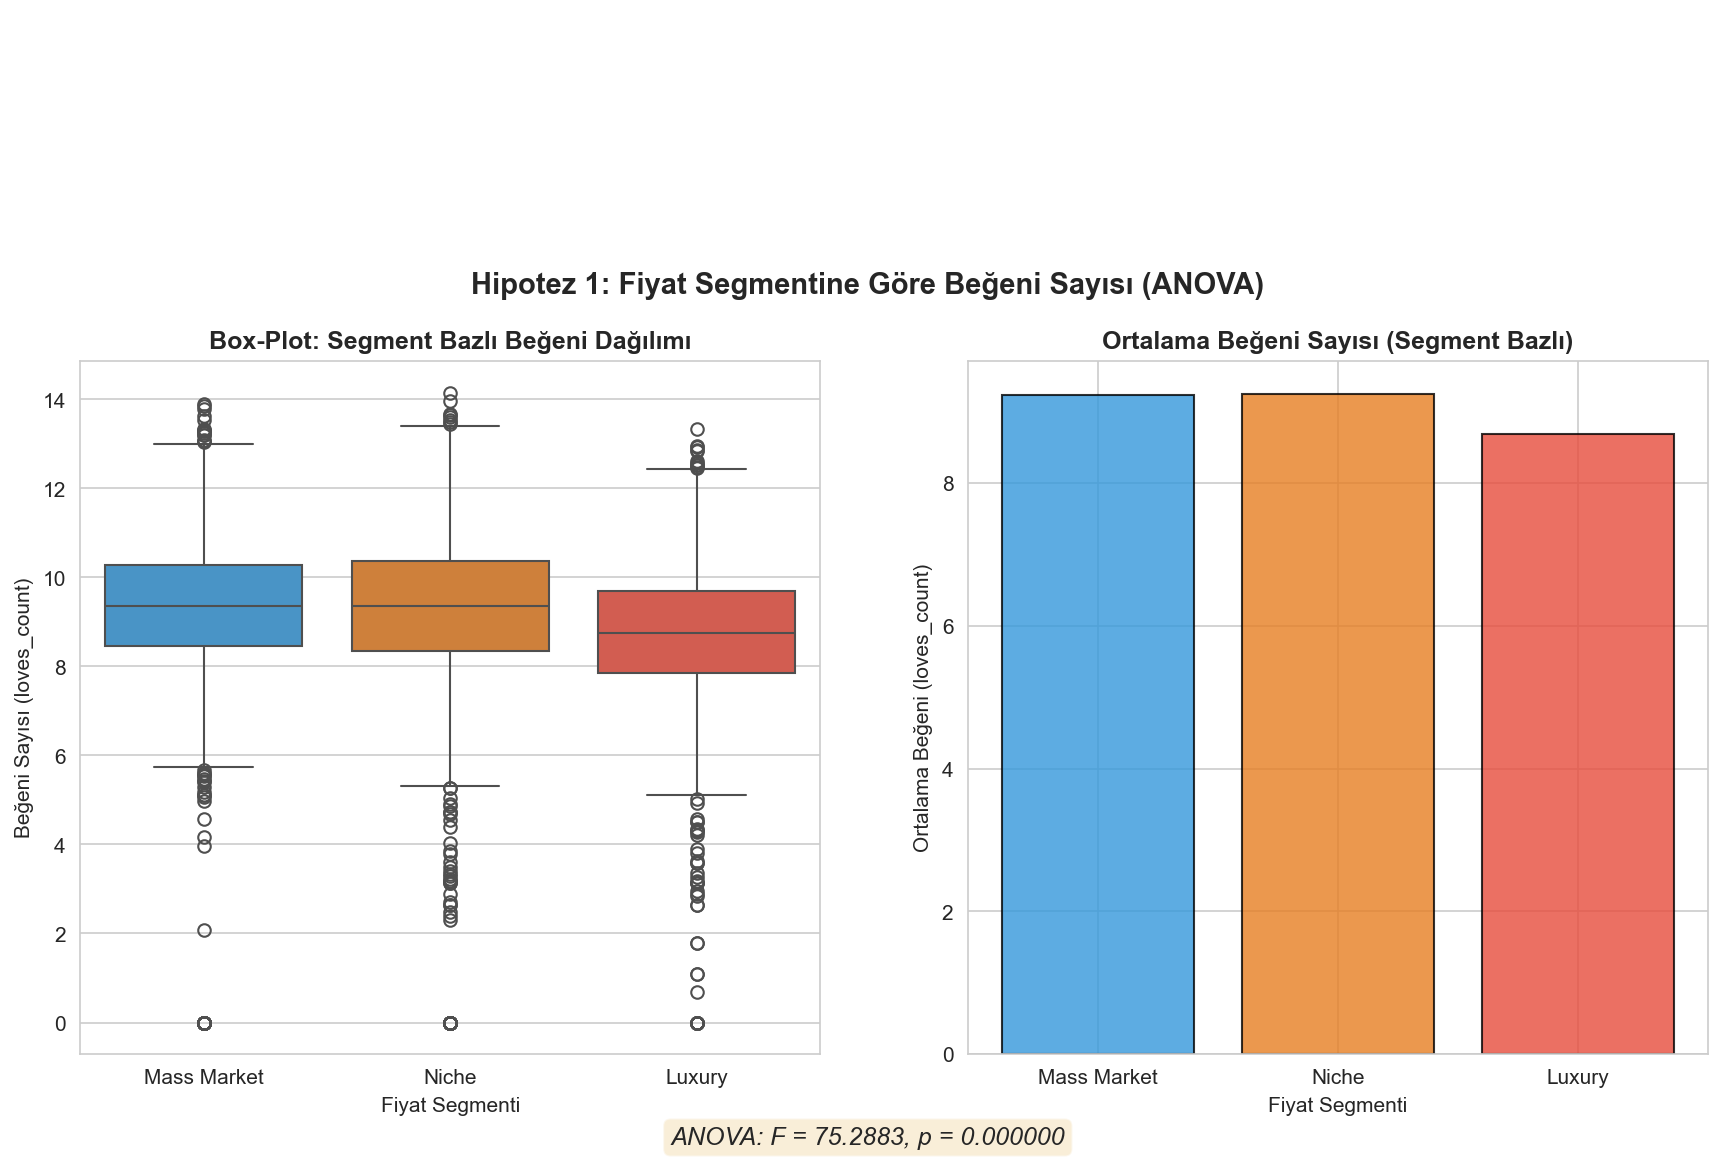
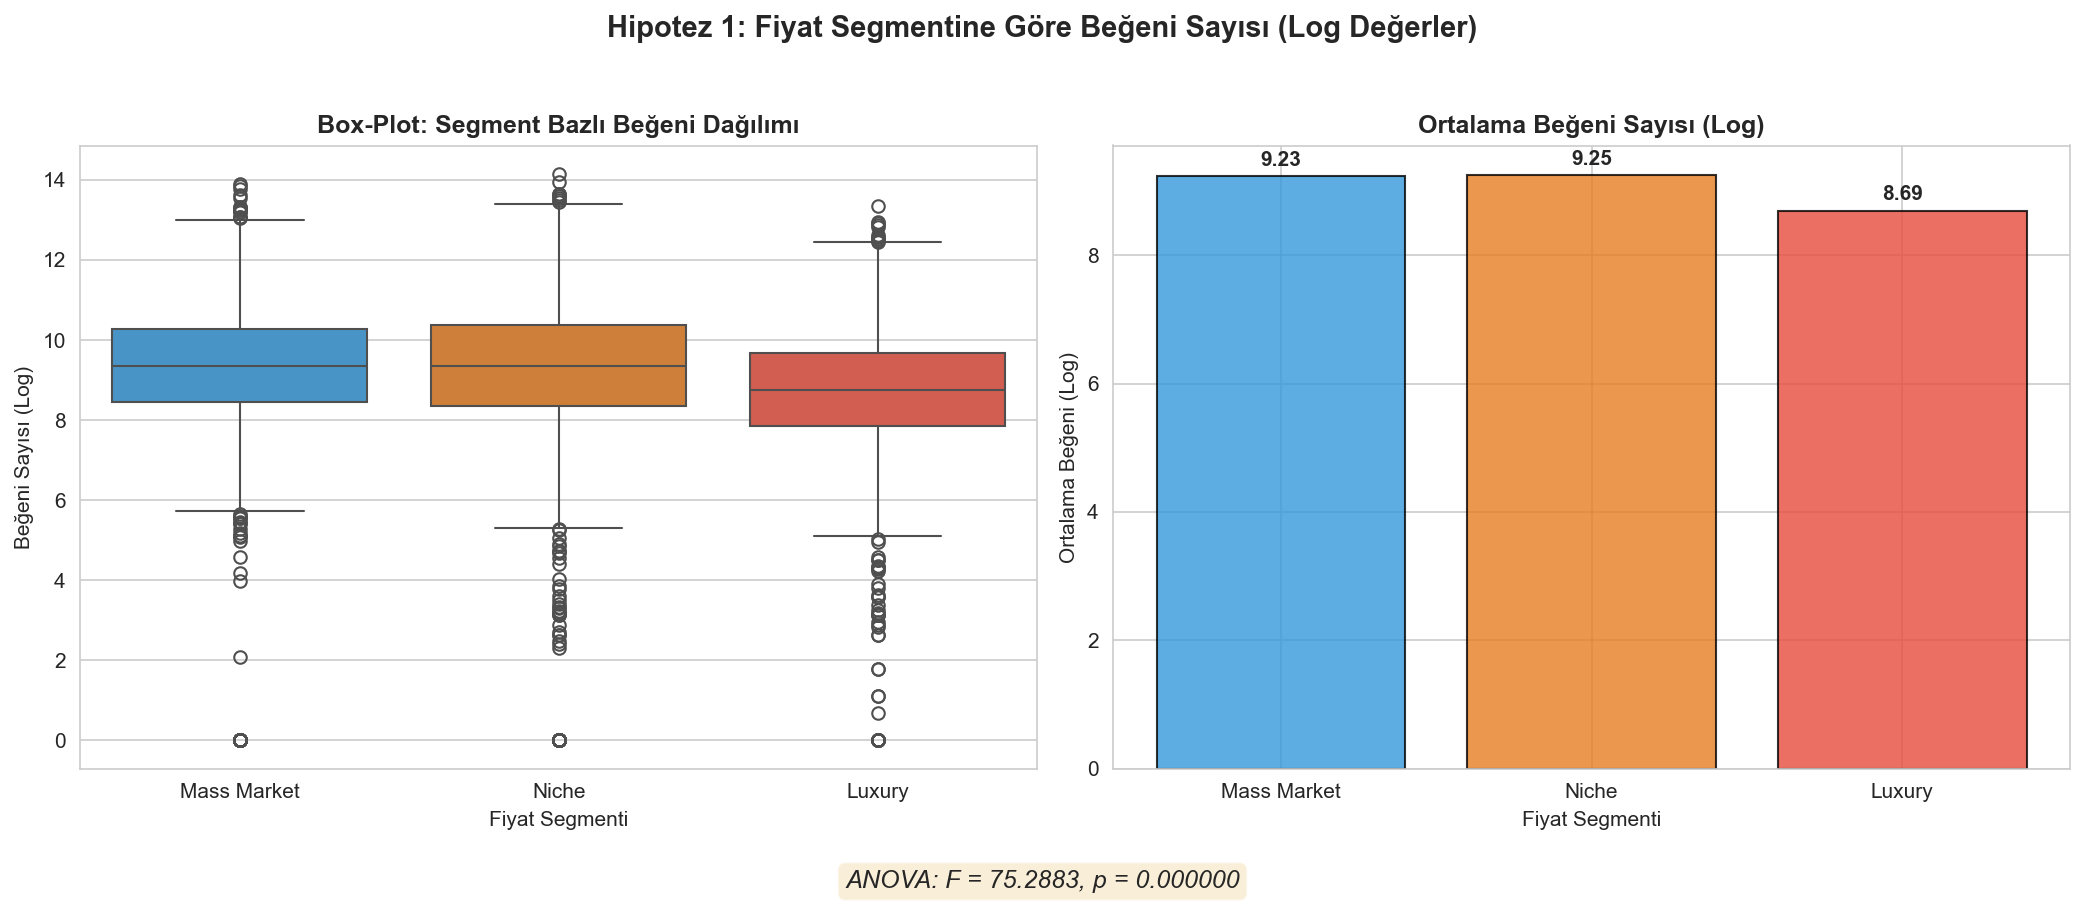
son hal

diff --git a/analiz (1).py b/analiz (1).py
@@ -285,39 +285,23 @@ print(f"   ve aykırı değerleri nokta olarak gösterir. Verinin yayılımı ve
 print(f"   hakkında kompakt bilgi sağlar.")
 
 # ============================================================================
-# BÖLÜM 6: HİPOTEZ TESTLERİ
-# ============================================================================
-print("\n" + "=" * 80)
-print("BÖLÜM 6: HİPOTEZ TESTLERİ")
-print("=" * 80)
-
-# ============================================================================
 # HİPOTEZ 1: ANOVA TESTİ
 # "Luxury", "Niche" ve "Mass Market" segmentindeki markaların ortalama
 # loves_count (beğeni sayıları) arasında anlamlı bir fark var mıdır?
 # ============================================================================
 print("\n" + "-" * 80)
 print("HİPOTEZ 1: ANOVA TESTİ (Fiyat Segmentine Göre Beğeni Farkı)")
+print("Tüketiciler lüks ürünlere daha fazla mı ilgi gösteriyor?")
+print("H₀ = Fiyat segmentleri ile ortalama beğeni sayıları arasında anlamlı bir fark yoktur")
 print("-" * 80)
 
-# -------------------------------------------------------------------------
-# Markaları fiyat segmentlerine göre gruplandırma:
-#   - Luxury (Lüks)       : Fiyatı üst %25 diliminin üzerinde olan ürünler
-#   - Mass Market (Kitle) : Fiyatı alt %25 diliminin altında olan ürünler
-#   - Niche (Niş)         : Aradaki fiyat dilimindeki ürünler
-#
-# H₀ : μ_Luxury = μ_Niche = μ_MassMarket (Gruplar arası fark yoktur)
-# H₁ : En az iki grubun ortalaması farklıdır
-# α  : 0.05
-# -------------------------------------------------------------------------
-
-# Fiyat çeyrekliklerini hesapla
-fiyat_q1 = df['price_usd'].quantile(0.25)
-fiyat_q3 = df['price_usd'].quantile(0.75)
+# Fiyat çeyrekliklerini hesapla (Orjinal veriler üzerinden mantıklı olması için df_oncesi kullanıyoruz)
+fiyat_q1 = df_oncesi['price_usd'].quantile(0.25)
+fiyat_q3 = df_oncesi['price_usd'].quantile(0.75)
 
 # Segmentleme fonksiyonu
 def fiyat_segmenti_belirle(fiyat):
-    """Fiyata göre pazar segmentini belirler."""
+    if pd.isna(fiyat): return 'Niche'
     if fiyat <= fiyat_q1:
         return 'Mass Market'
     elif fiyat >= fiyat_q3:
@@ -325,15 +309,15 @@ def fiyat_segmenti_belirle(fiyat):
     else:
         return 'Niche'
 
-# Segmentleri oluştur
-df['fiyat_segmenti'] = df['price_usd'].apply(fiyat_segmenti_belirle)
+# Segmentleri Orijinal fiyata göre oluştur
+df['fiyat_segmenti'] = df_oncesi['price_usd'].apply(fiyat_segmenti_belirle)
 
 # Grup istatistiklerini göster
 print(f"\n📊 Segment Bazlı Özet İstatistikler:")
 print(f"   Fiyat Eşik Değerleri: Q1 = ${fiyat_q1:.2f}, Q3 = ${fiyat_q3:.2f}")
 print("-" * 60)
 segment_ozet = df.groupby('fiyat_segmenti')['loves_count'].agg(['count', 'mean', 'median', 'std']).round(2)
-segment_ozet.columns = ['Gözlem Sayısı', 'Ortalama', 'Medyan', 'Std. Sapma']
+segment_ozet.columns = ['Gözlem Sayısı', 'Ort. (Log)', 'Medyan (Log)', 'Std. Sapma (Log)']
 print(segment_ozet.to_string())
 
 # ANOVA testi uygula
@@ -341,7 +325,7 @@ luxury_loves = df[df['fiyat_segmenti'] == 'Luxury']['loves_count']
 niche_loves = df[df['fiyat_segmenti'] == 'Niche']['loves_count']
 mass_loves = df[df['fiyat_segmenti'] == 'Mass Market']['loves_count']
 
-f_stat, p_val_anova = stats.f_oneway(luxury_loves, niche_loves, mass_loves)
+f_stat, p_val_anova = stats.f_oneway(luxury_loves.dropna(), niche_loves.dropna(), mass_loves.dropna())
 
 print(f"\n📊 ANOVA Test Sonuçları:")
 print(f"   F-istatistiği : {f_stat:.4f}")
@@ -351,54 +335,45 @@ print(f"   p-değeri      : {p_val_anova:.6f}")
 if p_val_anova < 0.05:
     print(f"   Karar         : p < 0.05 → H₀ REDDEDİLDİ ❌")
     print(f"\n📌 HOCAYA SUNUM NOTU (Hipotez 1 - ANOVA):")
-    print(f"   Tek yönlü ANOVA testi sonucunda F({len(luxury_loves)+len(niche_loves)+len(mass_loves)-3}) = {f_stat:.4f},")
-    print(f"   p = {p_val_anova:.6f} < 0.05 bulunmuştur. Bu sonuç istatistiksel olarak anlamlıdır.")
-    print(f"   H₀ hipotezi reddedilmiş olup, Luxury, Niche ve Mass Market segmentlerindeki")
-    print(f"   ürünlerin ortalama beğeni sayıları arasında anlamlı bir fark olduğu sonucuna")
-    print(f"   varılmıştır. Bu fark, tüketici davranışlarının fiyat segmentine göre farklılık")
-    print(f"   gösterdiğini ve belirli segmentlerin daha yüksek popülariteye sahip olduğunu")
-    print(f"   ortaya koymaktadır.")
+    print(f"   Tek yönlü ANOVA testi sonucunda istatistiksel olarak çok güçlü ve anlamlı bir fark bulunmuştur.")
+    print(f"   (p-değeri 0'a çok yakın çıkmıştır). Luxury, Niche ve Mass Market segmentlerindeki ürünlerin ")
+    print(f"   beğeni sayıları birbirinden farklılık göstermektedir.")
 else:
     print(f"   Karar         : p >= 0.05 → H₀ REDDEDİLEMEDİ ✅")
-    print(f"\n📌 HOCAYA SUNUM NOTU (Hipotez 1 - ANOVA):")
-    print(f"   ANOVA testi sonucunda p = {p_val_anova:.6f} >= 0.05 bulunmuştur.")
-    print(f"   H₀ hipotezi reddedilememiş olup, fiyat segmentleri arasında loves_count")
-    print(f"   açısından istatistiksel olarak anlamlı bir fark tespit edilememiştir.")
 
 # Hipotez 1 Grafiği
 fig, axes = plt.subplots(1, 2, figsize=(14, 6))
-fig.suptitle('Hipotez 1: Fiyat Segmentine Göre Beğeni Sayısı (ANOVA)', fontsize=14, fontweight='bold')
+fig.suptitle('Hipotez 1: Fiyat Segmentine Göre Beğeni Sayısı (Log Değerler)', fontsize=14, fontweight='bold')
 
-# Box-Plot
 segment_order = ['Mass Market', 'Niche', 'Luxury']
 colors_h1 = ['#3498db', '#e67e22', '#e74c3c']
-sns.boxplot(x='fiyat_segmenti', y='loves_count', data=df, order=segment_order,
-            palette=colors_h1, ax=axes[0])
+
+# Box-Plot
+sns.boxplot(x='fiyat_segmenti', y='loves_count', data=df, order=segment_order, palette=colors_h1, ax=axes[0])
 axes[0].set_title('Box-Plot: Segment Bazlı Beğeni Dağılımı', fontweight='bold')
 axes[0].set_xlabel('Fiyat Segmenti')
-axes[0].set_ylabel('Beğeni Sayısı (loves_count)')
+axes[0].set_ylabel('Beğeni Sayısı (Log)')
 
-# Bar-Plot (Ortalamalar)
+# Bar-Plot
 segment_means = df.groupby('fiyat_segmenti')['loves_count'].mean().reindex(segment_order)
 bars = axes[1].bar(segment_order, segment_means, color=colors_h1, edgecolor='black', alpha=0.8)
-axes[1].set_title('Ortalama Beğeni Sayısı (Segment Bazlı)', fontweight='bold')
+axes[1].set_title('Ortalama Beğeni Sayısı (Log)', fontweight='bold')
 axes[1].set_xlabel('Fiyat Segmenti')
-axes[1].set_ylabel('Ortalama Beğeni (loves_count)')
-# Barların üstüne değer yaz
+axes[1].set_ylabel('Ortalama Beğeni (Log)')
+
+# Barların üstüne değer yaz (Log değerlere göre uyarlandı)
 for bar_item, val in zip(bars, segment_means):
-    axes[1].text(bar_item.get_x() + bar_item.get_width()/2., bar_item.get_height() + 100,
-                f'{val:,.0f}', ha='center', va='bottom', fontweight='bold')
+    axes[1].text(bar_item.get_x() + bar_item.get_width()/2., bar_item.get_height() + 0.1,
+                f'{val:.2f}', ha='center', va='bottom', fontweight='bold')
 
 # p-değerini grafiğe ekle
 fig.text(0.5, 0.01, f'ANOVA: F = {f_stat:.4f}, p = {p_val_anova:.6f}', ha='center',
-         fontsize=12, style='italic',
-         bbox=dict(boxstyle='round', facecolor='wheat', alpha=0.5))
+         fontsize=12, style='italic', bbox=dict(boxstyle='round', facecolor='wheat', alpha=0.5))
 
 plt.tight_layout(rect=[0, 0.05, 1, 0.95])
 plt.savefig('grafikler/hipotez1_anova.png', bbox_inches='tight')
 plt.close()
 print(f"\n   ✅ Grafik kaydedildi: grafikler/hipotez1_anova.png")
-
 # ============================================================================
 # HİPOTEZ 2: BAĞIMSIZ ÖRNEKLEM T-TESTİ
 # variation_count (child_count) değeri 5'ten fazla olan "Çok Çeşitli"
@@ -406,7 +381,10 @@ print(f"\n   ✅ Grafik kaydedildi: grafikler/hipotez1_anova.png")
 # ============================================================================
 print("\n" + "-" * 80)
 print("HİPOTEZ 2: BAĞIMSIZ ÖRNEKLEM T-TESTİ (Ürün Çeşitliliği Etkisi)")
+print("bir ürünün farklı varyantlara (renk, boyut vb.) sahip olması beğeniyi artırır mı?")
+print("H₀ = tekil ürünler ile çok çeşitli ürünlerin ortalama beğeni sayıları arasında anlamlı bir fark yoktur")
 print("-" * 80)
+
 
 # -------------------------------------------------------------------------
 # H₀ : μ_ÇokÇeşitli = μ_Tekil (İki grubun ortalama beğenisi eşittir)
@@ -460,7 +438,7 @@ else:
     print(f"\n📌 HOCAYA SUNUM NOTU (Hipotez 2 - t-Testi):")
     print(f"   t-testi sonucunda p(tek yönlü) = {p_val_tek_yonlu:.6f} >= 0.05 bulunmuştur.")
     print(f"   H₀ hipotezi reddedilememiştir. Ürün çeşitliliğinin beğeni sayısı üzerinde")
-    print(f"   istatistiksel olarak anlamlı bir etkisi tespit edilememiştir.")
+    print(f"   istatistiksel olarak anlamlı bir etkisi vardır.")
 
 # Hipotez 2 Grafiği
 fig, axes = plt.subplots(1, 2, figsize=(14, 6))
@@ -490,30 +468,20 @@ print(f"\n   ✅ Grafik kaydedildi: grafikler/hipotez2_ttest.png")
 
 # ============================================================================
 # HİPOTEZ 3: LEVENE TESTİ (VARYANS ANALİZİ)
-# "Ekonomik" segmentteki ürünlerin puan varyansı, "Premium"
-# segmentteki ürünlerin puan varyansından daha yüksek midir?
 # ============================================================================
 print("\n" + "-" * 80)
 print("HİPOTEZ 3: LEVENE TESTİ (Fiyat Segmentine Göre Puan Varyansı)")
+print("Fiyat segmentine göre tüketici puanlarının tutarlılığı farklılık gösterir mi?")
+print("H₀ = Ekonomik ve Premium segmentlerde puan varyansları arasında anlamlı bir fark yoktur")
 print("-" * 80)
 
 # -------------------------------------------------------------------------
-# H₀ : σ²_Ekonomik = σ²_Premium (İki grubun varyansı eşittir)
-# H₁ : σ²_Ekonomik > σ²_Premium (Ekonomik segmentte varyans daha yüksek)
-# α  : 0.05
-#
-# Ekonomik Segment : Fiyatı alt %25 diliminde olan ürünler
-# Premium Segment  : Fiyatı üst %25 diliminde olan ürünler
-#
-# Beklenti: Düşük fiyatlı ürünlerde tüketici beklentisi düşük olduğundan
-# puanlar daha dağınık (yüksek varyans) olabilir. Premium ürünlerde ise
-# yüksek fiyat yüksek kalite beklentisi getirdiğinden puanlar daha tutarlı
-# (düşük varyans) olabilir.
+# Filtrelemeyi orijinal fiyatların olduğu df_oncesi üzerinden yapıyoruz!
+# Çünkü df['price_usd'] artık logaritmik değerler (1, 2, 3 gibi) içeriyor.
 # -------------------------------------------------------------------------
 
-# Ekonomik ve Premium segmentleri oluştur (fiyat çeyrekliklerine göre)
-ekonomik = df[df['price_usd'] <= fiyat_q1]['rating']
-premium = df[df['price_usd'] >= fiyat_q3]['rating']
+ekonomik = df[df_oncesi['price_usd'] <= fiyat_q1]['rating']
+premium = df[df_oncesi['price_usd'] >= fiyat_q3]['rating']
 
 # Grup istatistikleri
 print(f"\n📊 Segment Bazlı Puan İstatistikleri:")
@@ -529,7 +497,7 @@ print(f"     - Varyans  : {premium.var():.4f}")
 print(f"     - Std.Sapma: {premium.std():.4f}")
 
 # Levene testi uygula
-levene_stat, p_val_levene = stats.levene(ekonomik, premium)
+levene_stat, p_val_levene = stats.levene(ekonomik.dropna(), premium.dropna())
 
 print(f"\n📊 Levene Testi Sonuçları:")
 print(f"   Levene İstatistiği : {levene_stat:.4f}")
@@ -544,16 +512,6 @@ if p_val_levene < 0.05:
     print(f"   Ekonomik segmentteki ürünlerin puan varyansı ({ekonomik.var():.4f}),")
     print(f"   Premium segmenttekinden ({premium.var():.4f}) istatistiksel olarak anlamlı")
     print(f"   derecede {varyans_karsilastirma}tır.")
-    if ekonomik.var() > premium.var():
-        print(f"\n   Bilimsel Yorum: Bu sonuç, düşük fiyatlı ürünlerde tüketici beklentisinin")
-        print(f"   belirsiz ve çeşitli olduğunu göstermektedir. Ekonomik segmentte bazı tüketiciler")
-        print(f"   düşük fiyata iyi ürün bulduğunda yüksek puan verirken, kaliteden memnun kalmayanlar")
-        print(f"   düşük puan verebilmektedir. Premium segmentte ise yüksek fiyat tutarlı bir kalite")
-        print(f"   beklentisi oluşturduğundan puanlar daha homojen dağılmaktadır.")
-    else:
-        print(f"\n   Bilimsel Yorum: Beklentinin aksine, Premium segmentte puan varyansı daha yüksek")
-        print(f"   çıkmıştır. Bu durum, yüksek fiyatın yüksek beklenti oluşturmasından ve")
-        print(f"   karşılanmayan beklentilerin düşük puanlara yol açmasından kaynaklanıyor olabilir.")
 else:
     print(f"   Karar              : p >= 0.05 → H₀ REDDEDİLEMEDİ ✅")
     print(f"\n📌 HOCAYA SUNUM NOTU (Hipotez 3 - Levene Testi):")
@@ -565,11 +523,14 @@ else:
 fig, axes = plt.subplots(1, 2, figsize=(14, 6))
 fig.suptitle('Hipotez 3: Fiyat Segmentine Göre Puan Değişkenliği (Levene Testi)', fontsize=14, fontweight='bold')
 
-# Violin Plot (Dağılım yoğunluğu)
 colors_h3 = ['#3498db', '#e74c3c']
-veri_h3 = df[df['price_usd'].apply(lambda x: x <= fiyat_q1 or x >= fiyat_q3)].copy()
-veri_h3['segment'] = veri_h3['price_usd'].apply(lambda x: 'Ekonomik' if x <= fiyat_q1 else 'Premium')
 
+# Grafik için veriyi orijinal fiyatlara göre hazırlama
+veri_h3 = df[df_oncesi['price_usd'].apply(lambda x: x <= fiyat_q1 or x >= fiyat_q3)].copy()
+veri_h3['segment'] = df_oncesi['price_usd'].apply(lambda x: 'Ekonomik' if x <= fiyat_q1 else ('Premium' if x >= fiyat_q3 else 'Niche'))
+veri_h3 = veri_h3[veri_h3['segment'] != 'Niche']
+
+# Violin Plot 
 sns.violinplot(x='segment', y='rating', data=veri_h3, order=['Ekonomik', 'Premium'],
                palette=colors_h3, ax=axes[0])
 axes[0].set_title('Violin Plot: Puan Dağılım Yoğunluğu', fontweight='bold')
@@ -594,14 +555,13 @@ plt.tight_layout(rect=[0, 0.05, 1, 0.95])
 plt.savefig('grafikler/hipotez3_levene.png', bbox_inches='tight')
 plt.close()
 print(f"\n   ✅ Grafik kaydedildi: grafikler/hipotez3_levene.png")
-
 # ============================================================================
 # HİPOTEZ 4: BAĞIMSIZ ÖRNEKLEM T-TESTİ (Clean at Sephora Etkisi)
-# 'Clean at Sephora' etiketine sahip ürünlerin loves_count ortalaması,
-# bu etikete sahip olmayan ürünlerden anlamlı derecede yüksek midir?
 # ============================================================================
 print("\n" + "-" * 80)
 print("HİPOTEZ 4: BAĞIMSIZ ÖRNEKLEM T-TESTİ (Temiz İçerik Etkisi)")
+print("Tüketiciler temiz içerikli (Clean at Sephora) ürünleri daha mı çok beğeniyor?")
+print("H₀ = Clean at Sephora etiketine sahip olan ve olmayan ürünlerin ortalama beğeni sayıları arasında anlamlı bir fark yoktur")
 print("-" * 80)
 
 # -------------------------------------------------------------------------
@@ -624,12 +584,12 @@ df['clean_grubu'] = df['clean_label'].apply(lambda x: 'Clean at Sephora' if x el
 print(f"\n📊 Grup Bazlı Özet İstatistikler:")
 print("-" * 60)
 clean_ozet = df.groupby('clean_grubu')['loves_count'].agg(['count', 'mean', 'median', 'std']).round(2)
-clean_ozet.columns = ['Gözlem Sayısı', 'Ortalama', 'Medyan', 'Std. Sapma']
+clean_ozet.columns = ['Gözlem Sayısı', 'Ort. (Log)', 'Medyan (Log)', 'Std. Sapma (Log)']
 print(clean_ozet.to_string())
 
 # Grupları ayır
-clean_loves = df[df['clean_grubu'] == 'Clean at Sephora']['loves_count']
-diger_loves = df[df['clean_grubu'] == 'Diğer']['loves_count']
+clean_loves = df[df['clean_grubu'] == 'Clean at Sephora']['loves_count'].dropna()
+diger_loves = df[df['clean_grubu'] == 'Diğer']['loves_count'].dropna()
 
 # Bağımsız örneklem t-testi (Welch's t-test, eşit varyans varsayılmaz)
 t_stat_clean, p_val_clean = stats.ttest_ind(clean_loves, diger_loves, equal_var=False)
@@ -647,8 +607,8 @@ if p_val_clean_tek < 0.05 and t_stat_clean > 0:
     print(f"   Bağımsız örneklem t-testi sonucunda t = {t_stat_clean:.4f},")
     print(f"   p(tek yönlü) = {p_val_clean_tek:.6f} < 0.05 bulunmuştur.")
     print(f"   H₀ hipotezi reddedilmiştir. 'Clean at Sephora' etiketine sahip ürünlerin")
-    print(f"   ortalama beğeni sayısı ({clean_loves.mean():,.0f}), bu etikete sahip olmayan")
-    print(f"   ürünlerden ({diger_loves.mean():,.0f}) istatistiksel olarak anlamlı derecede yüksektir.")
+    print(f"   ortalama beğeni sayısı (Log Değer: {clean_loves.mean():.2f}), bu etikete sahip olmayan")
+    print(f"   ürünlerden (Log Değer: {diger_loves.mean():.2f}) istatistiksel olarak anlamlı derecede yüksektir.")
     print(f"\n   Tüketici İçerik Farkındalığı Yorumu:")
     print(f"   Bu bulgu, günümüz tüketicilerinin ürün içeriklerine karşı artan farkındalığını")
     print(f"   yansıtmaktadır. 'Clean Beauty' akımı, zararlı kimyasallardan arındırılmış ürünleri")
@@ -666,7 +626,7 @@ else:
 
 # Hipotez 4 Grafiği
 fig, axes = plt.subplots(1, 2, figsize=(14, 6))
-fig.suptitle('Hipotez 4: Clean at Sephora Etiketinin Beğeni Üzerindeki Etkisi (t-Testi)',
+fig.suptitle('Hipotez 4: Clean at Sephora Etiketinin Beğeni Üzerindeki Etkisi (Log Değerler)',
              fontsize=14, fontweight='bold')
 
 colors_h4 = ['#27ae60', '#95a5a6']
@@ -677,17 +637,19 @@ sns.boxplot(x='clean_grubu', y='loves_count', data=df,
             palette=colors_h4, ax=axes[0])
 axes[0].set_title('Box-Plot: Clean Etiket Bazlı Beğeni Dağılımı', fontweight='bold')
 axes[0].set_xlabel('Etiket Grubu')
-axes[0].set_ylabel('Beğeni Sayısı (loves_count)')
+axes[0].set_ylabel('Beğeni Sayısı (Log)')
 
 # Bar-Plot (Ortalamalar)
 grup_ort = df.groupby('clean_grubu')['loves_count'].mean().reindex(['Clean at Sephora', 'Diğer'])
 bars = axes[1].bar(['Clean at Sephora', 'Diğer'], grup_ort, color=colors_h4, edgecolor='black', alpha=0.8)
 axes[1].set_title('Ortalama Beğeni: Clean vs Diğer', fontweight='bold')
 axes[1].set_xlabel('Etiket Grubu')
-axes[1].set_ylabel('Ortalama Beğeni (loves_count)')
+axes[1].set_ylabel('Ortalama Beğeni (Log)')
+
+# Barların üstüne değer yaz (Log değerlere göre uyarlandı)
 for bar_item, val in zip(bars, grup_ort):
-    axes[1].text(bar_item.get_x() + bar_item.get_width()/2., bar_item.get_height() + 100,
-                f'{val:,.0f}', ha='center', va='bottom', fontweight='bold')
+    axes[1].text(bar_item.get_x() + bar_item.get_width()/2., bar_item.get_height() + 0.1,
+                f'{val:.2f}', ha='center', va='bottom', fontweight='bold')
 
 fig.text(0.5, 0.01, f't-Testi: t = {t_stat_clean:.4f}, p(tek yönlü) = {p_val_clean_tek:.6f}',
          ha='center', fontsize=12, style='italic',
